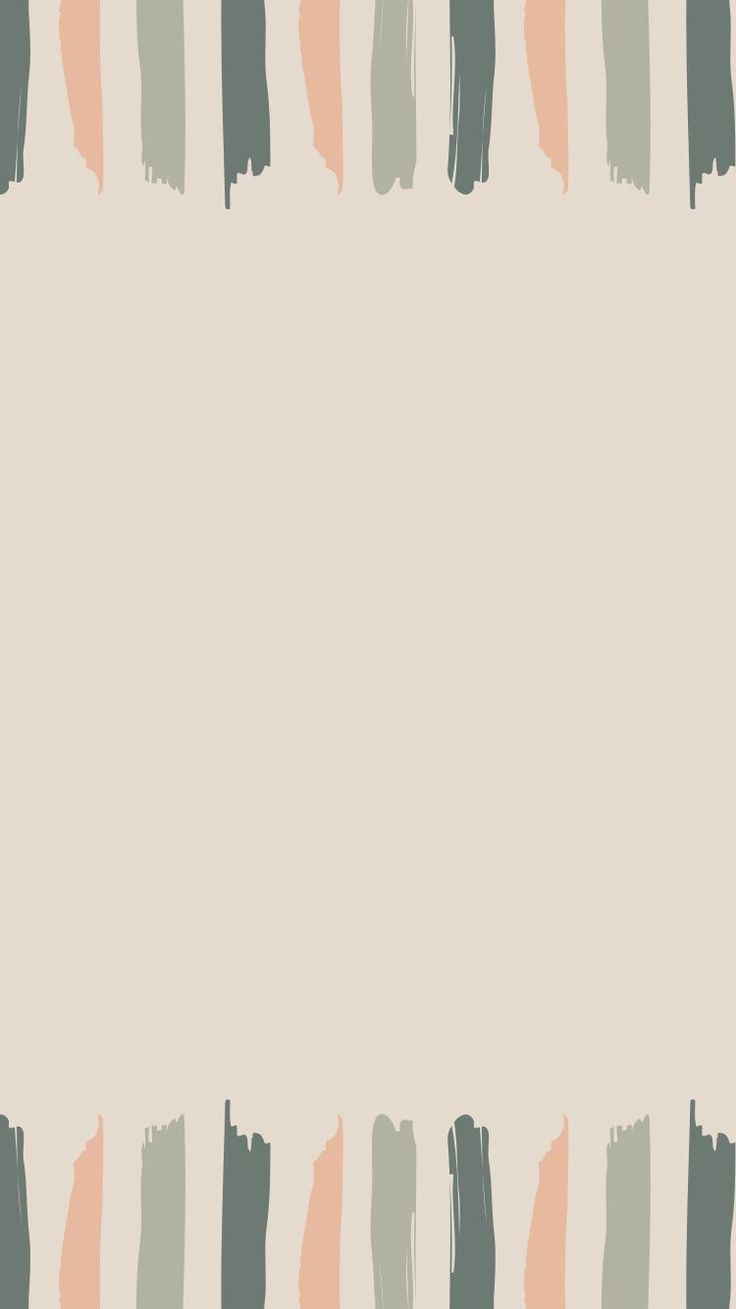
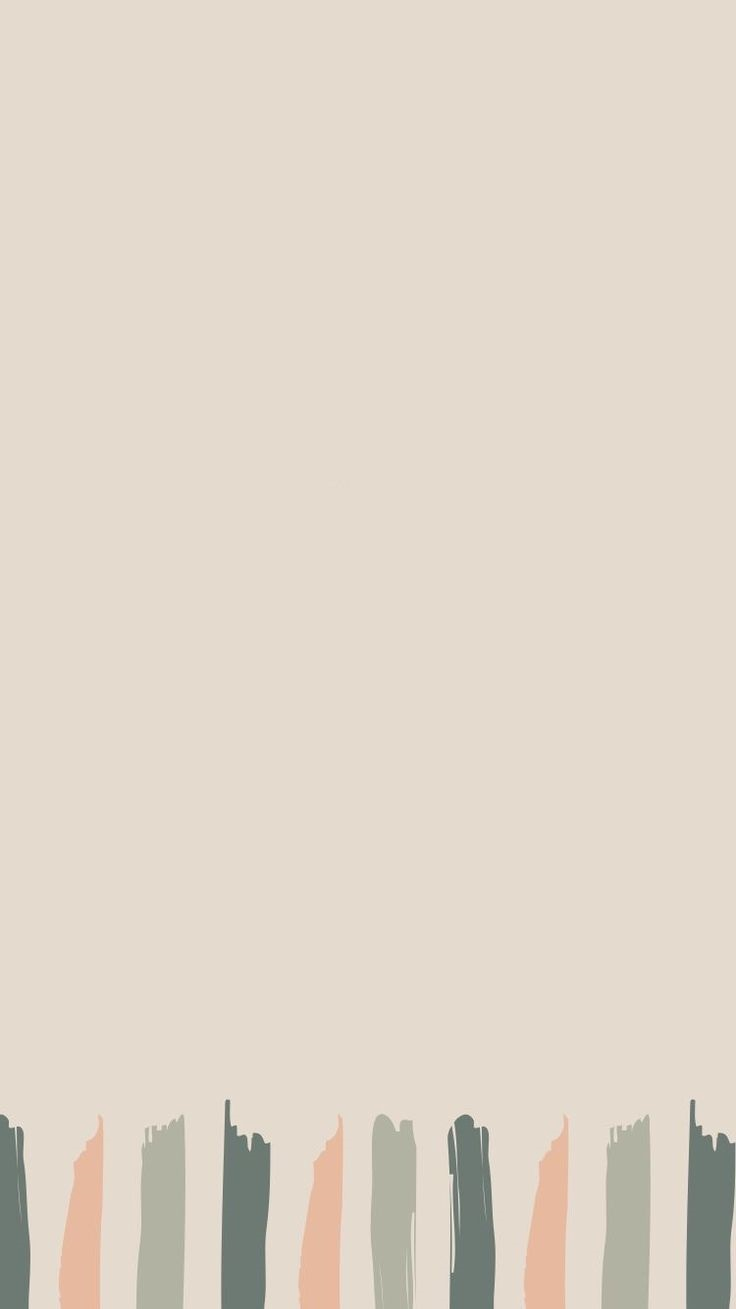
homescr

diff --git a/lib/homescreen.dart b/lib/homescreen.dart
@@ -16,19 +16,12 @@ class MyHomePage extends StatefulWidget {
 class _MyHomePageState extends State<MyHomePage> {
   bool isHovered = false;
   String _name = "";
-  String _email = "";
-  int _phoneNum = 0;
-  final TextEditingController _nameController = TextEditingController();
-  final TextEditingController _phoneNumController = TextEditingController();
-  final TextEditingController _emailController = TextEditingController();
-  final FirebaseAuth _auth = FirebaseAuth.instance;
-  final FirebaseFirestore _firestore = FirebaseFirestore.instance;
   User? _user;
 
   @override
   void initState() {
     super.initState();
-    _user = _auth.currentUser;
+    _user = FirebaseAuth.instance.currentUser;
     if (_user != null) {
       _getUserData();
     }
@@ -36,37 +29,18 @@ class _MyHomePageState extends State<MyHomePage> {
 
   Future<void> _getUserData() async {
     try {
-      final userData =
-      await _firestore.collection('users').doc(_user!.uid).get();
+      final userData = await FirebaseFirestore.instance
+          .collection('users')
+          .doc(_user!.uid)
+          .get();
 
       if (userData.exists) {
-        if (kDebugMode) {
-          if (kDebugMode) {
-            print("User data exists");
-          }
-        }
-        String newName = userData.data()?['name'] ?? "";
-        if (kDebugMode) {
-          print("Retrieved name: $newName");
-        }
-
         setState(() {
-          _name = newName;
-          _email = userData.data()?['email'] ?? "";
-          _phoneNum = userData.data()?['phone_num'] ?? 0;
-          _nameController.text = _name;
-          _emailController.text = _email;
-          _phoneNumController.text = _phoneNum.toString();
+          _name = userData.data()?['name'] ?? "";
         });
-      } else {
-        if (kDebugMode) {
-          print("User data does not exist");
-        }
       }
     } catch (e) {
-      if (kDebugMode) {
-        print("Error retrieving user data: $e");
-      }
+      print("Error retrieving user data: $e");
     }
   }
 
@@ -76,28 +50,9 @@ class _MyHomePageState extends State<MyHomePage> {
 
   @override
   Widget build(BuildContext context) {
-    const LinearGradient gradient = LinearGradient(
-      begin: Alignment.bottomLeft,
-      end: Alignment.topRight,
-      colors: [
-        // Color(0xFF025043),
-        Color(0xED000000),
-        Color(0xFFFFFFFF),
-        // Color(0xFF048C7F),
-        // Color(0xFF05998C),
-        // Color(0xFF4FB9AF),// Replace with your desired start color
-        // Replace with your desired end color
-      ],
-    );
-
-    const SizedBox(
-      height: 145,
-    );
-
     List<ButtonInfo> buttonsInfo = [
       ButtonInfo(
-        startColor: const Color(0xFFF241DA), // Replace with your desired start color
-        endColor: const Color(0xFFF74FD9),
+        color: Color.fromARGB(255, 246, 160, 40),
         text: 'Assessment Test',
         icon: Icons.assessment,
         onPressed: () {
@@ -105,15 +60,13 @@ class _MyHomePageState extends State<MyHomePage> {
         },
       ),
       ButtonInfo(
-        startColor: const Color(0xFFF241DA), // Replace with your desired start color
-        endColor: const Color(0xFFF74FD9),
+        color: Color.fromARGB(255, 246, 160, 40),
         text: 'Personality Test',
         icon: Icons.person,
         onPressed: () {},
       ),
       ButtonInfo(
-        startColor: const Color(0xFFF241DA), // Replace with your desired start color
-        endColor: const Color(0xFFF74FD9),
+        color: Color.fromARGB(255, 246, 160, 40),
         text: 'Coping Mechanisms',
         icon: Icons.lightbulb,
         onPressed: () {
@@ -121,16 +74,13 @@ class _MyHomePageState extends State<MyHomePage> {
         },
       ),
     ];
-    if (kDebugMode) {
-      print(_name);
-    }
+
     return Scaffold(
       extendBodyBehindAppBar: true,
       appBar: AppBar(
         backgroundColor: Colors.transparent,
-        toolbarHeight: 100,
-        elevation: 0.0,
-        automaticallyImplyLeading: false,
+        centerTitle: true,
+        toolbarHeight: 110,
         title: Row(
           mainAxisAlignment: MainAxisAlignment.spaceBetween,
           children: [
@@ -139,68 +89,54 @@ class _MyHomePageState extends State<MyHomePage> {
               style: GoogleFonts.poppins(
                 textStyle: const TextStyle(
                   color: Colors.black,
-                  fontSize: 28,
+                  fontSize: 40,
                   fontWeight: FontWeight.bold,
                 ),
               ),
             ),
-            IconButton(
-              icon: const Icon(
-                Icons.person_3_sharp,
-                color: Colors.black,
+            Container(
+              decoration: BoxDecoration(
+                shape: BoxShape.circle,
+                color: const Color.fromARGB(
+                    255, 248, 203, 134), // Set the background color to orange
               ),
-              onPressed: () {
-                _navigateToNamedRoute(context, 'profile');
-              },
-            ),
+              child: IconButton(
+                icon: const Icon(
+                  Icons.person_rounded,
+                  color: Colors.black,
+                  size: 35,
+                ),
+                onPressed: () {
+                  _navigateToNamedRoute(context, 'profile');
+                },
+                splashRadius: 20,
+              ),
+            )
           ],
         ),
       ),
       body: Container(
         decoration: const BoxDecoration(
-          gradient: gradient, // Apply the gradient here
+          image: DecorationImage(
+            image:
+                AssetImage("assets/bgr2.jpeg"), // Replace with your image path
+            fit: BoxFit.cover,
+          ),
         ),
         child: Center(
           child: Column(
             mainAxisAlignment: MainAxisAlignment.center,
             children: <Widget>[
-              const SizedBox(height: 30),
-              SingleChildScrollView(
-                scrollDirection: Axis.horizontal,
-                child: Row(
-                  children: buttonsInfo
-                      .sublist(0, 2) // Display the first 2 buttons in the first row
-                      .map(
-                        (info) => Padding(
-                      padding: const EdgeInsets.symmetric(horizontal: 10),
-                      child: buildLargeButton(
-                        info,
-                        const Color(0xFFF241DA), // Specify the start color
-                        const Color(0xFF3769E3), // Specify the end color
+              const SizedBox(height: 10),
+              Column(
+                children: buttonsInfo
+                    .map(
+                      (info) => Padding(
+                        padding: const EdgeInsets.symmetric(vertical: 10),
+                        child: buildLargeButton(info),
                       ),
-                    ),
-                  )
-                      .toList(),
-                ),
-              ),
-              const SizedBox(height: 50), // Add space between rows
-              SingleChildScrollView(
-                scrollDirection: Axis.horizontal,
-                child: Row(
-                  children: buttonsInfo
-                      .sublist(2) // Display the third button in the second row
-                      .map(
-                        (info) => Padding(
-                      padding: const EdgeInsets.symmetric(horizontal: 10),
-                      child: buildLargeButton(
-                        info,
-                        const Color(0xFFF241DA), // Specify the start color
-                        const Color(0xFF3769E3), // Specify the end color
-                      ),
-                    ),
-                  )
-                      .toList(),
-                ),
+                    )
+                    .toList(),
               ),
             ],
           ),
@@ -223,25 +159,25 @@ class _MyHomePageState extends State<MyHomePage> {
           },
           child: AnimatedContainer(
             duration: const Duration(milliseconds: 300),
-            width: isHovered ? 200 : 180,
-            height: isHovered ? 60 : 40,
+            width: isHovered ? 200 : 160,
+            height: isHovered ? 200 : 50,
             decoration: BoxDecoration(
-              color: const Color.fromARGB(255, 45, 127, 138),
-              borderRadius: BorderRadius.circular(45.0),
+              color: Color.fromARGB(255, 246, 160, 40),
+              borderRadius: BorderRadius.circular(40.0),
             ),
             child: const Row(
               mainAxisAlignment: MainAxisAlignment.center,
               children: [
                 Icon(
-                  Icons.person_outline,
-                  color: Colors.white,
+                  Icons.person,
+                  color: Color.fromARGB(255, 0, 0, 0),
                 ),
                 SizedBox(width: 8),
                 Text(
                   'Sakhi here',
                   style: TextStyle(
                     fontSize: 16,
-                    color: Colors.white,
+                    color: Color.fromARGB(255, 0, 0, 0),
                     fontWeight: FontWeight.bold,
                   ),
                 ),
@@ -253,50 +189,42 @@ class _MyHomePageState extends State<MyHomePage> {
     );
   }
 
-  Widget buildLargeButton(ButtonInfo info, Color startColor, Color endColor) {
-    return Center(
-      child: Container(
-        width: 180,
-        height: 160,
-        decoration: BoxDecoration(
-          gradient: LinearGradient(
-            colors: [startColor, endColor], // Define your gradient colors
-            begin: Alignment.topLeft,
-            end: Alignment.bottomRight,
+  Widget buildLargeButton(ButtonInfo info) {
+    return Container(
+      width: 250,
+      height: 150,
+      decoration: BoxDecoration(
+          color: info.color, borderRadius: BorderRadius.circular(20)),
+      child: ElevatedButton(
+        onPressed: info.onPressed,
+        style: ElevatedButton.styleFrom(
+          foregroundColor: Colors.transparent,
+          backgroundColor: Colors.transparent,
+          elevation: 0,
+          shape: RoundedRectangleBorder(
+            borderRadius: BorderRadius.circular(10),
           ),
-          borderRadius: BorderRadius.circular(10),
+          minimumSize: const Size(0, 0),
+          visualDensity: VisualDensity.compact,
         ),
-        child: ElevatedButton(
-          onPressed: info.onPressed,
-          style: ElevatedButton.styleFrom(
-            foregroundColor: Colors.transparent,
-            backgroundColor: Colors.transparent,
-            elevation: 0,
-            shape: RoundedRectangleBorder(
-              borderRadius: BorderRadius.circular(10),
+        child: Column(
+          mainAxisAlignment: MainAxisAlignment.center,
+          children: [
+            Icon(
+              info.icon,
+              size: 40,
+              color: Colors.white,
             ),
-            minimumSize: const Size(0, 0),
-            visualDensity: VisualDensity.compact,
-          ),
-          child: Column(
-            mainAxisAlignment: MainAxisAlignment.center,
-            children: [
-              Icon(
-                info.icon,
-                size: 60,
+            const SizedBox(height: 5),
+            Text(
+              info.text,
+              style: const TextStyle(
+                fontSize: 14,
                 color: Colors.white,
               ),
-              const SizedBox(height: 10),
-              Text(
-                info.text,
-                style: const TextStyle(
-                  fontSize: 18,
-                  color: Colors.white,
-                ),
-                textAlign: TextAlign.center,
-              ),
-            ],
-          ),
+              textAlign: TextAlign.center,
+            ),
+          ],
         ),
       ),
     );
@@ -307,15 +235,13 @@ class ButtonInfo {
   final String text;
   final IconData icon;
   final VoidCallback onPressed;
-  final Color startColor;
-  final Color endColor;
+  final Color color;
 
   ButtonInfo({
     required this.text,
     required this.icon,
     required this.onPressed,
-    required this.startColor,
-    required this.endColor,
+    required this.color,
   });
 }
 

diff --git a/lib/main.dart b/lib/main.dart
@@ -9,7 +9,7 @@ import 'profile.dart';
 import 'coping/journal.dart';
 import 'quiz/depression_test.dart';
 import 'package:samveadana/auth/user_provider.dart';
-import 'chat_bot/chat_screen.dart';// Import the UserProvider class
+import 'chat_bot/chat_screen.dart';
 
 void main() async {
   WidgetsFlutterBinding.ensureInitialized();
@@ -18,7 +18,8 @@ void main() async {
   runApp(
     MultiProvider(
       providers: [
-        ChangeNotifierProvider(create: (_) => UserProvider()), // Provide UserProvider
+        ChangeNotifierProvider(
+            create: (_) => UserProvider()), // Provide UserProvider
       ],
       child: MyApp(),
     ),
@@ -44,9 +45,9 @@ class MyApp extends StatelessWidget {
         'otp': (context) => const Myotp(),
         'home': (context) => const MyHomePage(title: ''),
         'profile': (context) => const ProfilePage(),
-        'journal' : (context) => const JournalPage(),
-        'quiz' : (context) => const QuizScreen(),
-        'sakhi' : (context) => const ChatScreen(),
+        'journal': (context) => const JournalPage(),
+        'quiz': (context) => const QuizScreen(),
+        'sakhi': (context) => const ChatScreen(),
       },
     );
   }
